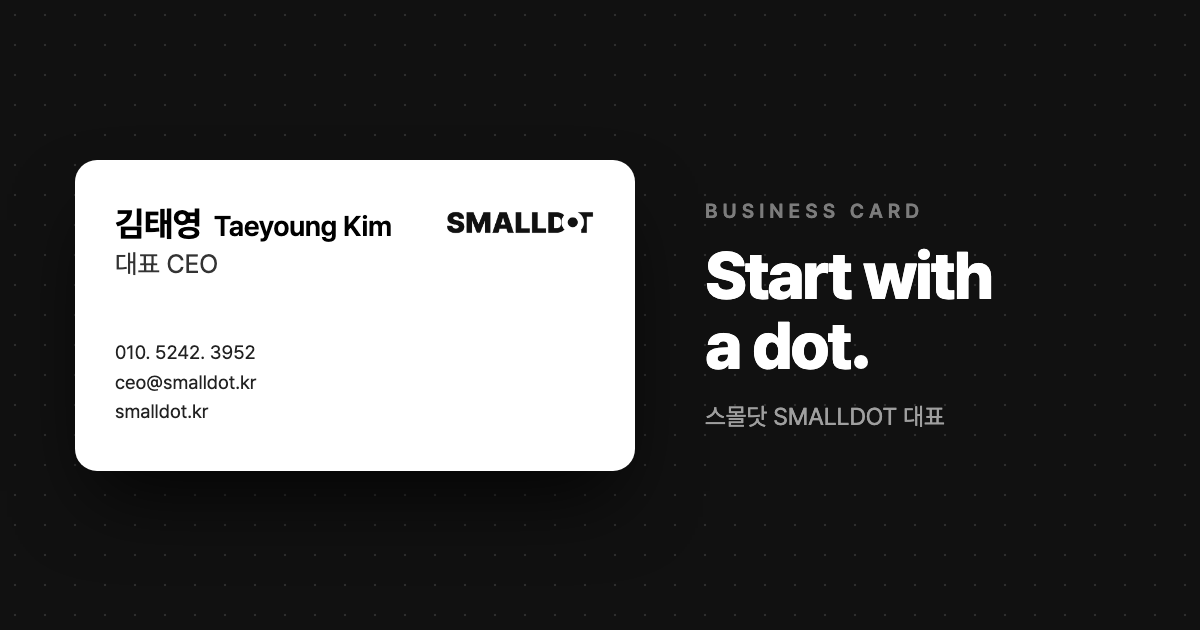
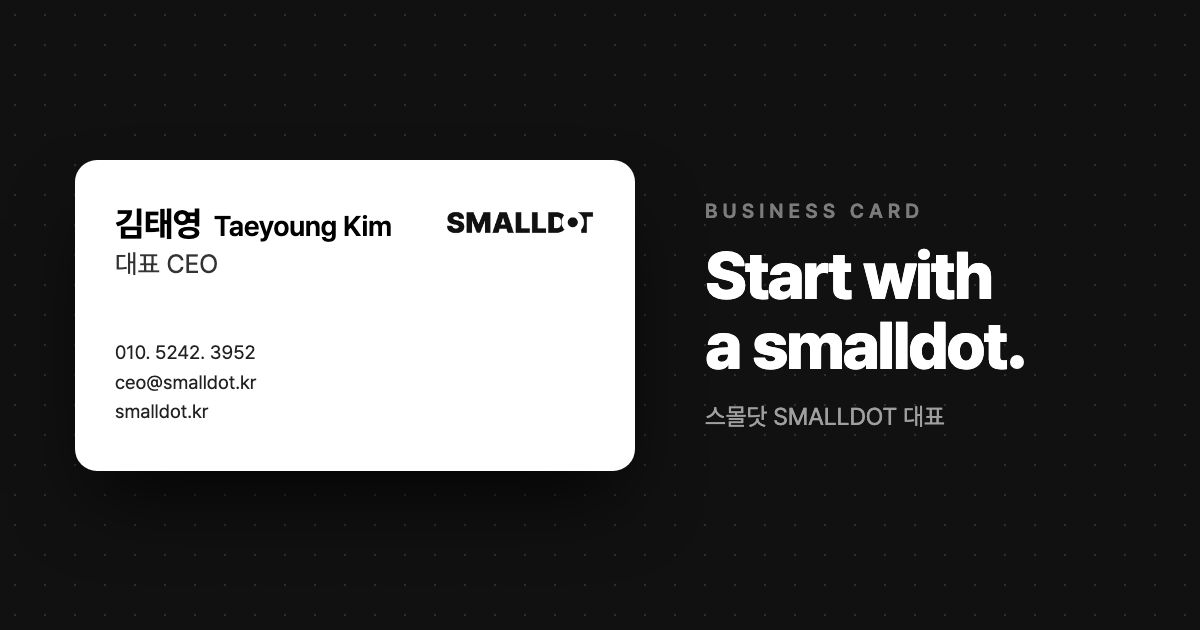
마지막 문구를 Start with a smalldot.으로 변경 (홈페이지·명함·공유 이미지·연락처 파일)

Changed region(s): [[0.6167, 0.5127, 0.8633, 0.6032]]

diff --git a/card/index.html b/card/index.html
@@ -8,7 +8,7 @@
 <meta name="theme-color" content="#0b0b0b">
 <meta property="og:type" content="profile">
 <meta property="og:title" content="김태영 | 스몰닷 SMALLDOT 대표">
-<meta property="og:description" content="Start with a dot. 긍정적인 변화의 시작, 스몰닷입니다.">
+<meta property="og:description" content="Start with a smalldot. 긍정적인 변화의 시작, 스몰닷입니다.">
 <meta property="og:url" content="https://smalldot.kr/card/">
 <meta property="og:image" content="https://smalldot.kr/card/og.png">
 <meta property="og:image:width" content="1200">
@@ -129,7 +129,7 @@
   .company a.more:hover { color: var(--fg); }
 
   .end { margin-top: 72px; text-align: center; }
-  .end .s { font-size: 30px; font-weight: 800; letter-spacing: -0.045em; }
+  .end .s { font-size: clamp(22px, 7vw, 30px); white-space: nowrap; font-weight: 800; letter-spacing: -0.045em; }
   .end .s i { display: inline-block; width: .19em; height: .19em; border-radius: 50%; background: var(--fg); margin-left: .05em; }
   .end small { display: block; margin-top: 10px; font-size: 11px; letter-spacing: .2em; color: var(--fg-3); }
 
@@ -259,7 +259,7 @@
   </section>
 
   <div class="end">
-    <div class="s">Start with a dot<i></i></div>
+    <div class="s">Start with a smalldot<i></i></div>
     <small>© <span id="yr">2026</span> SMALLDOT</small>
   </div>
 </main>

diff --git a/index.html b/index.html
@@ -431,7 +431,7 @@
         <div class="sec-num"><b>05</b>CONTACT</div>
         <div></div>
       </div>
-      <div class="contact-big reveal">Start with<br>a <span class="o">dot</span><span class="end-dot" aria-hidden="true"></span></div>
+      <div class="contact-big reveal">Start with<br>a <span class="o">smalldot</span><span class="end-dot" aria-hidden="true"></span></div>
       <div class="sec-body">
         <div class="contact-list reveal">
           <a class="contact-row" href="mailto:smalldotcorp@gmail.com">
